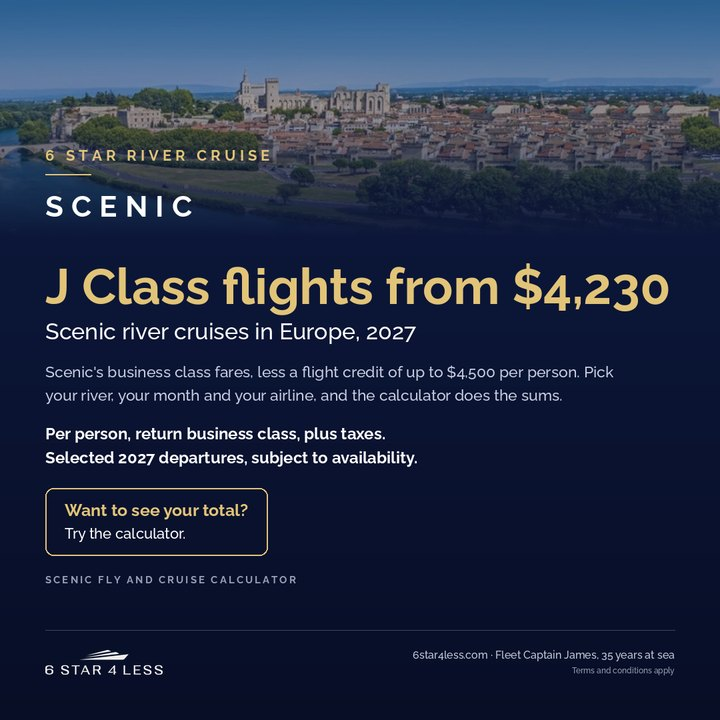
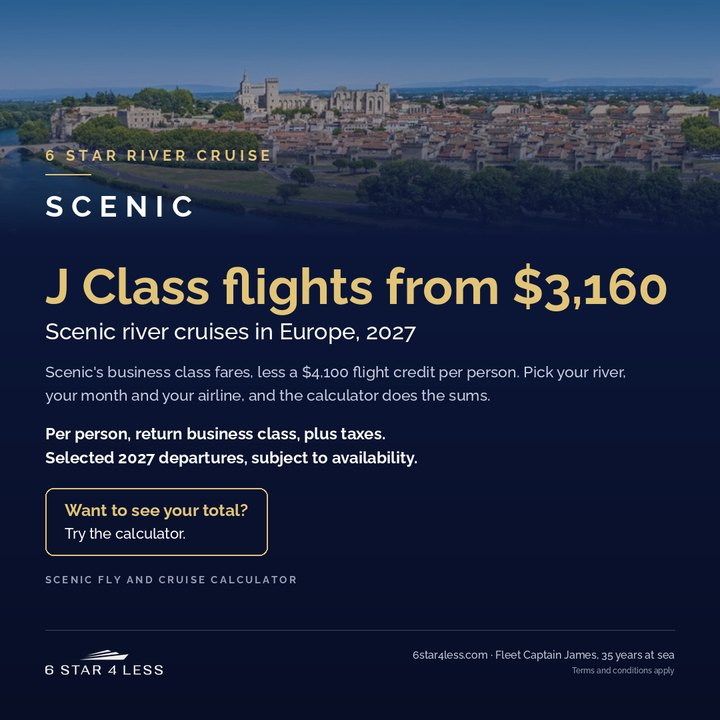
Scenic set fares, 4100 credit, from 3160

Changed region(s): [[0.1222, 0.4889, 0.8556, 0.5806], [0.7333, 0.3667, 0.9472, 0.4583]]

diff --git a/tools/scenic-fly-calculator.html b/tools/scenic-fly-calculator.html
@@ -104,7 +104,7 @@ html,body{margin:0;background:var(--bg);color:var(--ink);font-family:Raleway,Ari
 </head>
 <body>
 <div class="fc">
- <div class="fc-card"><img src="https://6star4less.github.io/6s4l-assets/tools/scenic-fly-banner.jpg" alt="6 star river cruise with Scenic, J Class flights from $4,230 per person plus taxes" width="1500" height="400"></div>
+ <div class="fc-card"><img src="https://6star4less.github.io/6s4l-assets/tools/scenic-fly-banner.jpg" alt="6 star river cruise with Scenic, J Class flights from $3,160 per person plus taxes" width="1500" height="400"></div>
  <div class="fc-head">
   <span class="fc-pill">SCENIC RIVER · FLY AND CRUISE</span>
   <h1>6 star river cruise, J Class flights</h1>
@@ -139,8 +139,8 @@ var SCENIC={"Qatar":8730,"Malaysia":9570,"Singapore":9930,"Cathay Pacific":10095
    Oct and Nov are not on sale yet: estimated from May. */
 var LOW={"Qatar":8796,"Malaysia":9188,"Emirates":9988,"Cathay Pacific":12054};
 var PEAK={"Qatar":13247,"Malaysia":12116,"Emirates":11901,"Cathay Pacific":14297};
-var AUG={"Qatar":12109,"Malaysia":9257,"Emirates":11060,"Cathay Pacific":15089};
-var MAY={"Qatar":9162,"Malaysia":9203,"Emirates":10798};
+var AUG={"Qatar":12109,"Malaysia":9257,"Emirates":11060,"Cathay Pacific":15089,"Qantas":10327};
+var MAY={"Qatar":9162,"Malaysia":9203,"Emirates":10798,"Lufthansa":12442,"Swiss":12456,"Qantas":13003};
 var DIRECT={Feb:LOW,Mar:LOW,Jun:PEAK,Jul:PEAK,Aug:AUG,Oct:MAY,Nov:MAY};
 var EST={Oct:1,Nov:1};
 /* S6-FCTAX, 15 Nov 2026. James: "add a note at bottom, the scenic special offer fares are net,
@@ -148,8 +148,33 @@ var EST={Oct:1,Nov:1};
    Ranges are estimates, per person, return business class, Australia to Europe. */
 /* S6-FCNODIR: a combination with no direct fare says why. */
 /* S6-FCTAX2, 15 Nov: cut back and moved into the saving section. */
-var TAXGUIDE={"Qatar":"$900 to $1,300 per person for Qatar Airways","Malaysia":"$700 to $1,000 per person for Malaysia Airlines","Singapore":"$450 to $650 per person for Singapore Airlines","Cathay Pacific":"$1,400 to $1,600 per person for Cathay Pacific","Emirates":"$1,500 to $2,500 per person for Emirates"};
+var TAXGUIDE={"Qatar":"$900 to $1,300 per person for Qatar Airways","Malaysia":"$700 to $1,000 per person for Malaysia Airlines","Singapore":"$450 to $650 per person for Singapore Airlines","Cathay Pacific":"$1,400 to $1,600 per person for Cathay Pacific","Emirates":"$1,500 to $2,500 per person for Emirates","Swiss":"$1,000 to $1,400 per person for Swiss","Lufthansa":"$1,000 to $1,400 per person for Lufthansa","Qantas":"$1,100 to $1,500 per person for Qantas"};
 function taxLine(al){return "Scenic fares are net, without taxes. As a guide, allow "+(TAXGUIDE[al]||"taxes, which vary by airline")+".";}
+/* S6-FCAIRSET, 15 Nov 2026. Scenic's own set net air fares and air credit per
+   itinerary and departure, from James's screen captures of Scenic's booking system.
+   Departures not listed here fall back to SCENIC (high season) and CREDIT by month. */
+var AIRSET={
+ jewels:[
+  {d:["16 Jul","27 Jul","30 Jul","13 Aug"],credit:4100,
+   f:{"Swiss":7260,"Lufthansa":7340,"Qatar":8730,"Malaysia":9570,"Singapore":10250,"Cathay Pacific":10695,"Emirates":12795}},
+  {d:["22 Feb","9 Mar","6 Nov","8 Nov","9 Nov"],credit:4100,
+   f:{"Swiss":7260,"Lufthansa":7340,"Qatar":8730,"Malaysia":9570,"Singapore":10250,"Cathay Pacific":10770,"Emirates":12150,"Qantas":13130}}],
+ rhine:[
+  {d:["22 Mar"],credit:4100,
+   f:{"Qatar":8730,"Malaysia":9570,"Singapore":9930,"Cathay Pacific":10095,"Qantas":11095,"Emirates":11495}},
+  {d:["28 Jul"],credit:4100,
+   f:{"Malaysia":9570,"Singapore":9930,"Cathay Pacific":10095,"Emirates":12095}}],
+ bordeaux:[
+  {d:["19 Jun","6 Jul","16 Jul","9 Aug"],credit:4100,
+   f:{"Swiss":7340,"Lufthansa":7495,"Qatar":9980,"Qantas":10395,"Cathay Pacific":10795,"Singapore":11280}}],
+ sof:[
+  {d:["23 Jul","2 Aug","29 Oct"],credit:4100,
+   f:{"Swiss":7340,"Lufthansa":7495,"Malaysia":9760,"Singapore":10060,"Qatar":10095,"Cathay Pacific":10740,"Emirates":13695}}]};
+var WAIT={"jewels|9 Mar":1};
+function airFor(it,d){var g=(AIRSET[it.id]||[]).filter(function(x){return x.d.indexOf(d[0])>=0;})[0];
+ return g?{f:g.f,credit:g.credit,set:true}:{f:SCENIC,credit:CREDIT[d[1]],set:false};}
+function drawAirs(){var af=airFor(st.it,st.d);st.al=null;
+ $("airs").innerHTML=Object.keys(af.f).map(function(a){return '<button class="fc-chip" data-a="'+esc(a)+'">'+esc(a)+'</button>';}).join("");}
 var st={it:null,d:null,al:null};
 function $(id){return document.getElementById(id);}
 function money(v){return "$"+Math.round(v).toLocaleString("en-AU");}
@@ -162,10 +187,10 @@ $("airs").innerHTML=Object.keys(SCENIC).map(function(a){return '<button class="f
 function pick(sel,el){[].forEach.call(document.querySelectorAll(sel),function(b){b.classList.remove("on");});el.classList.add("on");}
 $("maps").addEventListener("click",function(e){var b=e.target.closest(".fc-map");if(!b)return;
  pick(".fc-map",b);st.it=ITINS[+b.dataset.i];st.d=null;
- $("dates").innerHTML=st.it.dates.map(function(d,i){return '<button class="fc-chip" data-i="'+i+'">'+d[0]+' 2027<small>from '+money(d[3])+'</small></button>';}).join("");
+ $("dates").innerHTML=st.it.dates.map(function(d,i){return '<button class="fc-chip" data-i="'+i+'">'+d[0]+' 2027<small>from '+money(d[3])+'</small>'+(WAIT[st.it.id+"|"+d[0]]?'<small style="color:#C0392B;font-weight:700">Waitlist</small>':'')+'</button>';}).join("");
  $("s2").classList.remove("off");sync();$("s2").scrollIntoView({behavior:"smooth",block:"nearest"});});
 $("dates").addEventListener("click",function(e){var b=e.target.closest(".fc-chip");if(!b)return;
- pick("#dates .fc-chip",b);st.d=st.it.dates[+b.dataset.i];$("s3").classList.remove("off");sync();$("s3").scrollIntoView({behavior:"smooth",block:"nearest"});});
+ pick("#dates .fc-chip",b);st.d=st.it.dates[+b.dataset.i];drawAirs();$("s3").classList.remove("off");sync();$("s3").scrollIntoView({behavior:"smooth",block:"nearest"});});
 $("airs").addEventListener("click",function(e){var b=e.target.closest(".fc-chip");if(!b)return;
  pick("#airs .fc-chip",b);st.al=b.dataset.a;sync();});
 function sync(){$("go").disabled=!(st.it&&st.d&&st.al);}
@@ -179,7 +204,7 @@ async function typeInto(el,text,speed){try{var rb=el.getBoundingClientRect();if(
 
 async function run(){
  busy=true;var it=st.it,d=st.d,al=st.al,m=d[1];
- var credit=CREDIT[m],sf=SCENIC[al],dir=(DIRECT[m]||{})[al],est=!!EST[m];
+ var af=airFor(it,d),credit=af.credit,sf=af.f[al],dir=(DIRECT[m]||{})[al],est=!!EST[m];
  var flyNow=sf-credit;
  var out=$("out");out.style.display="block";out.innerHTML='<div class="fc-think" id="think"></div><div class="fc-res" id="res"></div>';
  out.scrollIntoView({behavior:"smooth",block:"start"});
@@ -214,7 +239,7 @@ async function run(){
   (it.url?'<a class="fc-again" style="margin-right:14px" target="_blank" rel="noopener" href="'+it.url+'">See the itinerary on Scenic</a>':'')+/*S6-FCLINK*/
   '<button class="fc-again" id="again">Try another</button>'+
   '<div class="fc-warn">Estimation Only - fares fluctuate and may be sold out by the time you come to book.<br>Rebate offer dependent on air fares being available under this promotion. Direct airfares are indicative only.</div>'+
-  '<div class="fc-note">Cruise: my exclusive Scenic rate against the full fare. Flights: Was is the lowest return business class fare from Sydney booked direct with '+esc(al)+', from Google Flights, captured 13 and 14 November 2026'+(est?'; '+m+' flights are not on sale yet, so it is an estimate based on May':'')+'. Now is Scenic\'s business class fare less your Scenic flight credit. Scenic\'s high season air fares are used throughout. Fares move daily and are confirmed with your quote. Credit applies to Sapphire and Diamond deck suites on selected Scenic Europe river cruises of 11 days or longer, not combinable with Super Earlybird savings. Subject to availability.</div>'+
+  '<div class="fc-note">Cruise: my exclusive Scenic rate against the full fare. Flights: Was is the lowest return business class fare from Sydney booked direct with '+esc(al)+', from Google Flights, captured 13 and 14 November 2026'+(est?'; '+m+' flights are not on sale yet, so it is an estimate based on May':'')+'. Now is Scenic\'s business class fare less your Scenic flight credit. '+(af.set?'Air fares are Scenic\'s set fares for this departure.':'Scenic\'s high season air fares are used throughout.')+' Fares move daily and are confirmed with your quote. Credit applies to Sapphire and Diamond deck suites on selected Scenic Europe river cruises of 11 days or longer, not combinable with Super Earlybird savings. Subject to availability.</div>'+
   (dir?'':'<div class="fc-tax">We have not captured a fare booked direct with '+esc(al)+' for '+esc(m)+', so there is no Was price or saving shown for this combination. Your Scenic fare and credit still apply.</div>')+
   (totWas?'':'<div class="fc-tax">'+esc(taxLine(al))+'</div>');
  await typeFig("c");await typeFig("f");await typeFig("t");
